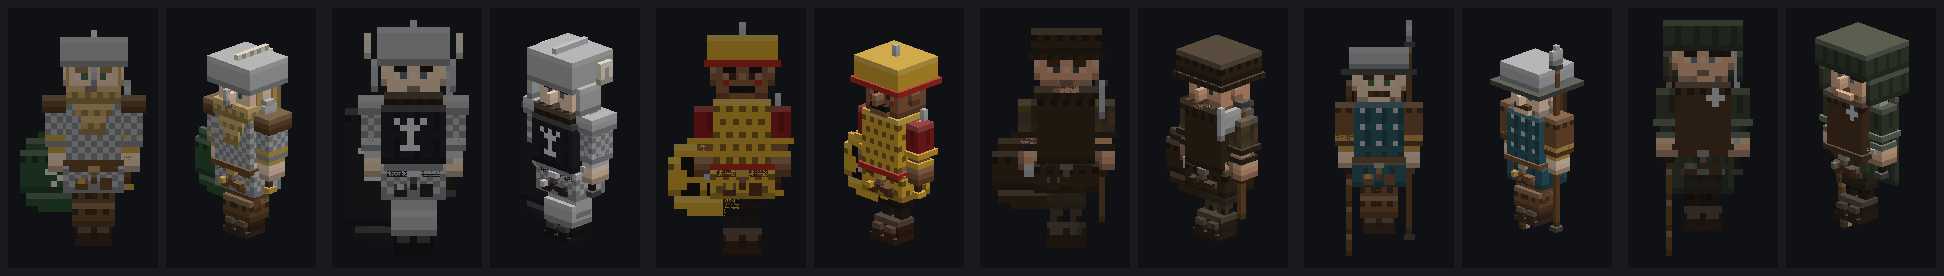
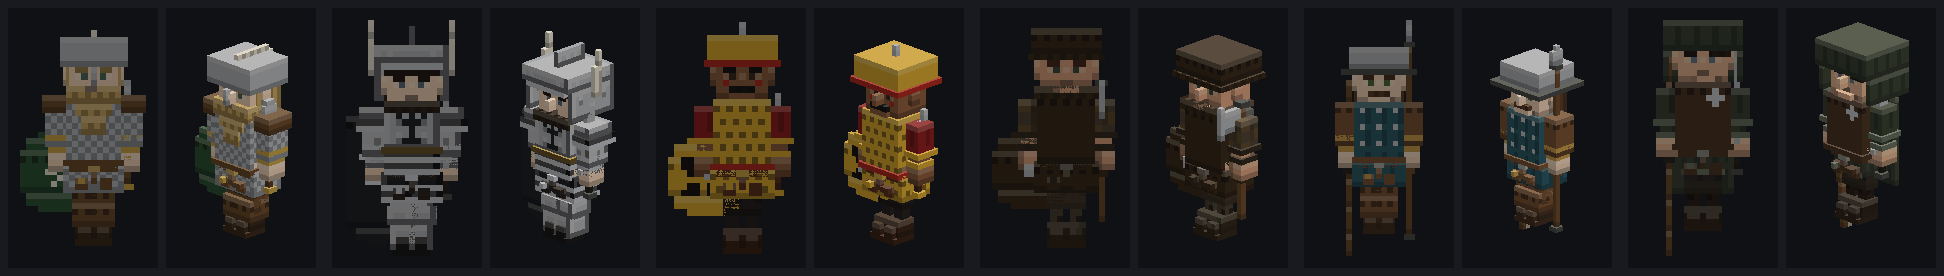
feat(model-gen): Gondor plate armour, plate and ring-mail shading
Gondor set rebuilt as shells that follow the body: helm crown, sides and back with an
open face, tall crest and white wings; riveted breastplate with the White Tree, black
faulds and tassets rimmed in silver, gold belt; pauldron with a black lame, mail upper
arms, vambraces on the forearms; steel cuisses, knee cops and greaves. New `plate`
(top-left light, dark bottom/right edges, rivets) and `rings` styles, bottom-row rim
colour, accent slot. Forearm armour attaches to the forearm (not an anchor in 5b).

Claude-Session: https://claude.ai/code/session_01Gbg8CbZzR2naWnPFU84Uog

Changed region(s): [[0.1543, 0.058, 0.3395, 0.8986]]

diff --git a/specs/core/model-generator.md b/specs/core/model-generator.md
@@ -78,7 +78,14 @@ is moved onto the anchor bone, then an offset, rotation and scale from data are 
 
 **Open question for the maintainer:** rendering-animation 5b puts `*_boot_armor` under `*_leg` (the thigh), so
 greaves on it would not bend with the knee. The viewer attaches boot armour to `*_shin` for now; the rig spec
-should probably move `*_boot_armor` under `*_shin`.
+should probably move `*_boot_armor` under `*_shin`. Forearm armour (vambraces) has no anchor in 5b; generated sets
+use `*_forearm_armor` groups that the viewer attaches to `*_forearm`. A `*_forearm_armor` anchor under `*_forearm`
+would make that official.
+
+**Armour style** (Gondor first, 2026-11-01): shells that follow the body (helm crown, sides and back around an open
+face; breastplate; limb plates) instead of loose boxes; layered lames; `plate` shading lit from the top-left with
+dark bottom and right edges and rivets; `rings` for mail; black lames rimmed in silver; a gold accent belt. Detail
+comes from the texture, shape from the cubes.
 
 **Armour convention:** one `.bbmodel` per faction in `gear/armour/`, groups named after the anchor bones
 (`head_armor`, `chest_armor`, `*_arm_armor`, `*_leg_armor`, `*_boot_armor`, `cape`); each group's pivot is that
